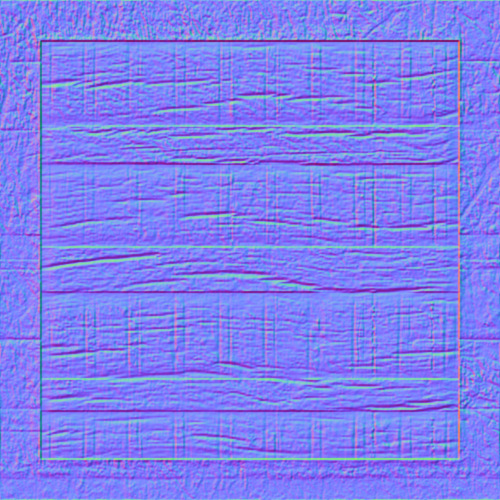
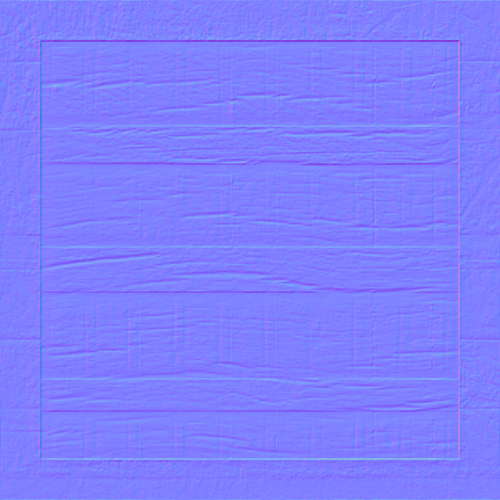
Added new cube object with normal texture
Now trying to get normals to work

diff --git a/LearnOpenGL/src/Renderer.cpp b/LearnOpenGL/src/Renderer.cpp
@@ -91,8 +91,6 @@ namespace Engine
 
 	void Renderer::CreateModelScene()
 	{
-
-		m_shaders.get()->push_back(make_unique<Shader>("assets/shaders/backpack"));		// 2U
 		//// Point light cube
 		//m_meshes.get()->push_back(make_unique<Mesh>(Mesh::GenerateVertices(), Mesh::GenerateIndices()));
 		//m_shaders.get()->push_back(make_unique<Shader>("assets/shaders/light"));
@@ -111,9 +109,13 @@ namespace Engine
 		//lightModel = glm::translate(lightModel, vec3(m_lightSpot->GetPosition()));
 		//GetShaderAt(1U)->SetMat4("u_model", (mat4)lightModel);
 		CreateGenericLights();
+
+		//m_shaders.get()->push_back(make_unique<Shader>("assets/shaders/backpack"));
+		m_shaders.get()->push_back(make_unique<Shader>("assets/shaders/cube"));
 		LoadShaderUniforms(GetShaderAt(2U));
 
-		m_model = new Model((char*)"assets/models/backpack/backpack.obj");
+		//m_model = new Model((char*)"assets/models/backpack/backpack.obj");
+		m_model = new Model((char*)"assets/models/cube/cube.obj");
 	}
 
 	void Renderer::RenderModelScene(double pTime)
